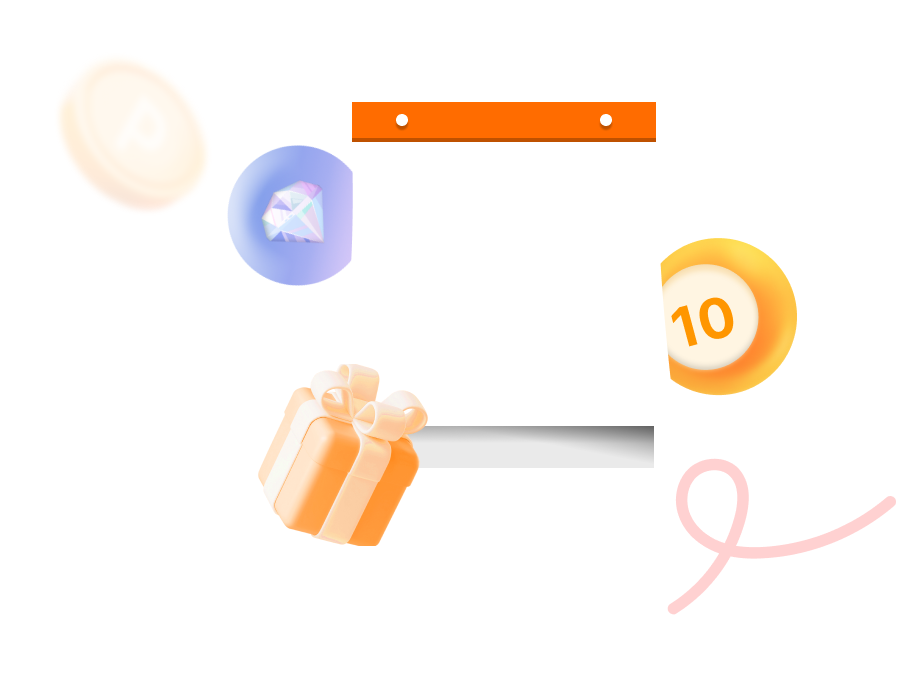
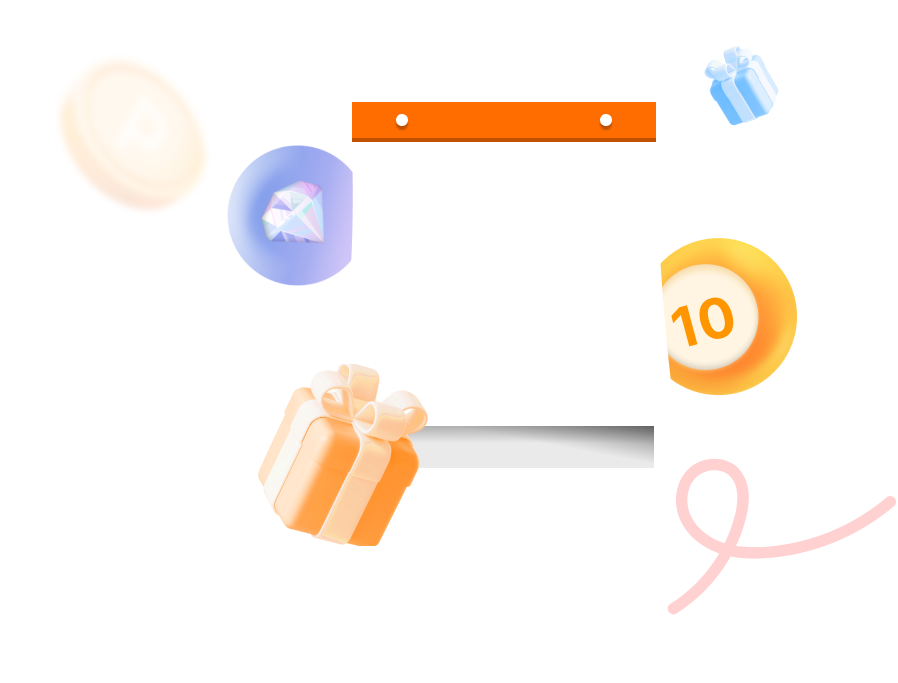
출석체크 고정이미지 변경 추가

Changed region(s): [[0.7795, 0.0615, 0.8731, 0.1845]]

diff --git a/apps/010pay/010pay/resources/css/common.css b/apps/010pay/010pay/resources/css/common.css
@@ -971,6 +971,12 @@ div.nppfs-keypad { top: 0 !important; }
 .account-register li > span input:-ms-input-placeholder { font-size: 16px; } 
 .account-register li > span input.placeholder { font-size: 16px; } 
 .account-register .input-box.focus { -webkit-box-shadow: none; box-shadow: none; } 
+/*  */
+@media only screen and (min-width: 690px) and (max-width: 700px) {	
+    .account-register li > span { padding: 9px 16px; height: 60px; } 
+    .account-register li > span label { top: 9px; } 
+}
+/*  */
 .headline ~ .section .account-register { padding-top: 0; } 
 /* ----- 계좌 인증 ----- */
 .account-auth { margin-bottom: 20px; border: 1px solid #f0edeb; border-radius: 4px; } 
@@ -1821,10 +1827,12 @@ to { width: 100%; }
 .chulcheck-new .section-visual {background: url('../images//benefit//chulcheck-new-bg.png') center / cover; } 
 .chulcheck-new .section-visual .title, .chulcheck-retto .section-visual .title { color: #151515;font-size: 28px;font-weight: 700;line-height: 37.8px; } 
 .chulcheck-new .section-visual .container {background: url(../images/benefit/chulcheck-new.png) center / auto 314px no-repeat;background-position: calc(50% - 23px) 92px; } 
-.chulcheck-new .section-visual .date, .chulcheck-retto .section-visual .date { color: #FF7F00; top: calc(46% + 0px);left: 3px;font-family: Pretendard;font-size: 86px;font-weight: 700;line-height: 102.63px;letter-spacing: -0.01em; } 
+.chulcheck-new .section-visual .date { color: #FF7F00; top: calc(46% + 0px);left: 3px;font-family: Pretendard;font-size: 86px;font-weight: 700;line-height: 102.63px;letter-spacing: -0.01em; } 
+.chulcheck-retto .section-visual .date { color: #FF6C00; top: calc(46% + 0px);left: 3px;font-family: Pretendard;font-size: 86px;font-weight: 700;line-height: 102.63px;letter-spacing: -0.01em; } 
 .chulcheck-retto .section-visual {background: url('../images//benefit//chulcheck-retto-bg.png') center / cover; } 
 .chulcheck-retto .section-visual .container {background: url(../images/benefit/chulcheck-retto.png) center / auto 341px no-repeat;background-position: calc(50% - 27px) 92px; } 
 .chulcheck-new.complete .section-visual .date, .chulcheck-retto.complete .section-visual .date { color: #ccc; } 
+.chulcheck-new .section-visual .complete, .chulcheck-retto .section-visual .complete {  background: url('../images/benefit/chulcheck-complete-new.png') no-repeat center / contain; width: 155px; height: 148px; transform: translateX(-50%); top: 216px; margin-left: 110px; }
 
 /* 포인트 사용 방법, 포인트 활용 방법 */
 .guide-use { line-height: 1.5; } 

diff --git a/apps/010pay/010pay/resources/html/benefit/chulcheck_new.html b/apps/010pay/010pay/resources/html/benefit/chulcheck_new.html
@@ -15,7 +15,7 @@
     <link rel="stylesheet" href="../../css/jquery-ui.css" />
     <link rel="stylesheet" href="../../css/owl.carousel.min.css" />
     <link rel="stylesheet" href="../../css/slick.min.css" />
-    <link rel="stylesheet" href="../../css/common.css?ver=20230718" />
+    <link rel="stylesheet" href="../../css/common.css?ver=20240801" />
     <!--[if lt IE 9]>
       <script type="text/javascript" src="../../js/html5shiv.js"></script>
       <script type="text/javascript" src="../../js/respond.min.js"></script>

diff --git a/apps/010pay/010pay/resources/html/benefit/chulcheck_new_complete.html b/apps/010pay/010pay/resources/html/benefit/chulcheck_new_complete.html
@@ -15,7 +15,7 @@
     <link rel="stylesheet" href="../../css/jquery-ui.css" />
     <link rel="stylesheet" href="../../css/owl.carousel.min.css" />
     <link rel="stylesheet" href="../../css/slick.min.css" />
-    <link rel="stylesheet" href="../../css/common.css?ver=20230718" />
+    <link rel="stylesheet" href="../../css/common.css?ver=20240801" />
     <!--[if lt IE 9]>
       <script type="text/javascript" src="../../js/html5shiv.js"></script>
       <script type="text/javascript" src="../../js/respond.min.js"></script>

diff --git a/apps/010pay/010pay/resources/html/benefit/chulcheck_retto.html b/apps/010pay/010pay/resources/html/benefit/chulcheck_retto.html
@@ -15,7 +15,7 @@
     <link rel="stylesheet" href="../../css/jquery-ui.css" />
     <link rel="stylesheet" href="../../css/owl.carousel.min.css" />
     <link rel="stylesheet" href="../../css/slick.min.css" />
-    <link rel="stylesheet" href="../../css/common.css?ver=20230718" />
+    <link rel="stylesheet" href="../../css/common.css?ver=20240801" />
     <!--[if lt IE 9]>
       <script type="text/javascript" src="../../js/html5shiv.js"></script>
       <script type="text/javascript" src="../../js/respond.min.js"></script>

diff --git a/apps/010pay/010pay/resources/html/benefit/chulcheck_retto_complete.html b/apps/010pay/010pay/resources/html/benefit/chulcheck_retto_complete.html
@@ -15,7 +15,7 @@
     <link rel="stylesheet" href="../../css/jquery-ui.css" />
     <link rel="stylesheet" href="../../css/owl.carousel.min.css" />
     <link rel="stylesheet" href="../../css/slick.min.css" />
-    <link rel="stylesheet" href="../../css/common.css?ver=20230718" />
+    <link rel="stylesheet" href="../../css/common.css?ver=20240801" />
     <!--[if lt IE 9]>
       <script type="text/javascript" src="../../js/html5shiv.js"></script>
       <script type="text/javascript" src="../../js/respond.min.js"></script>
